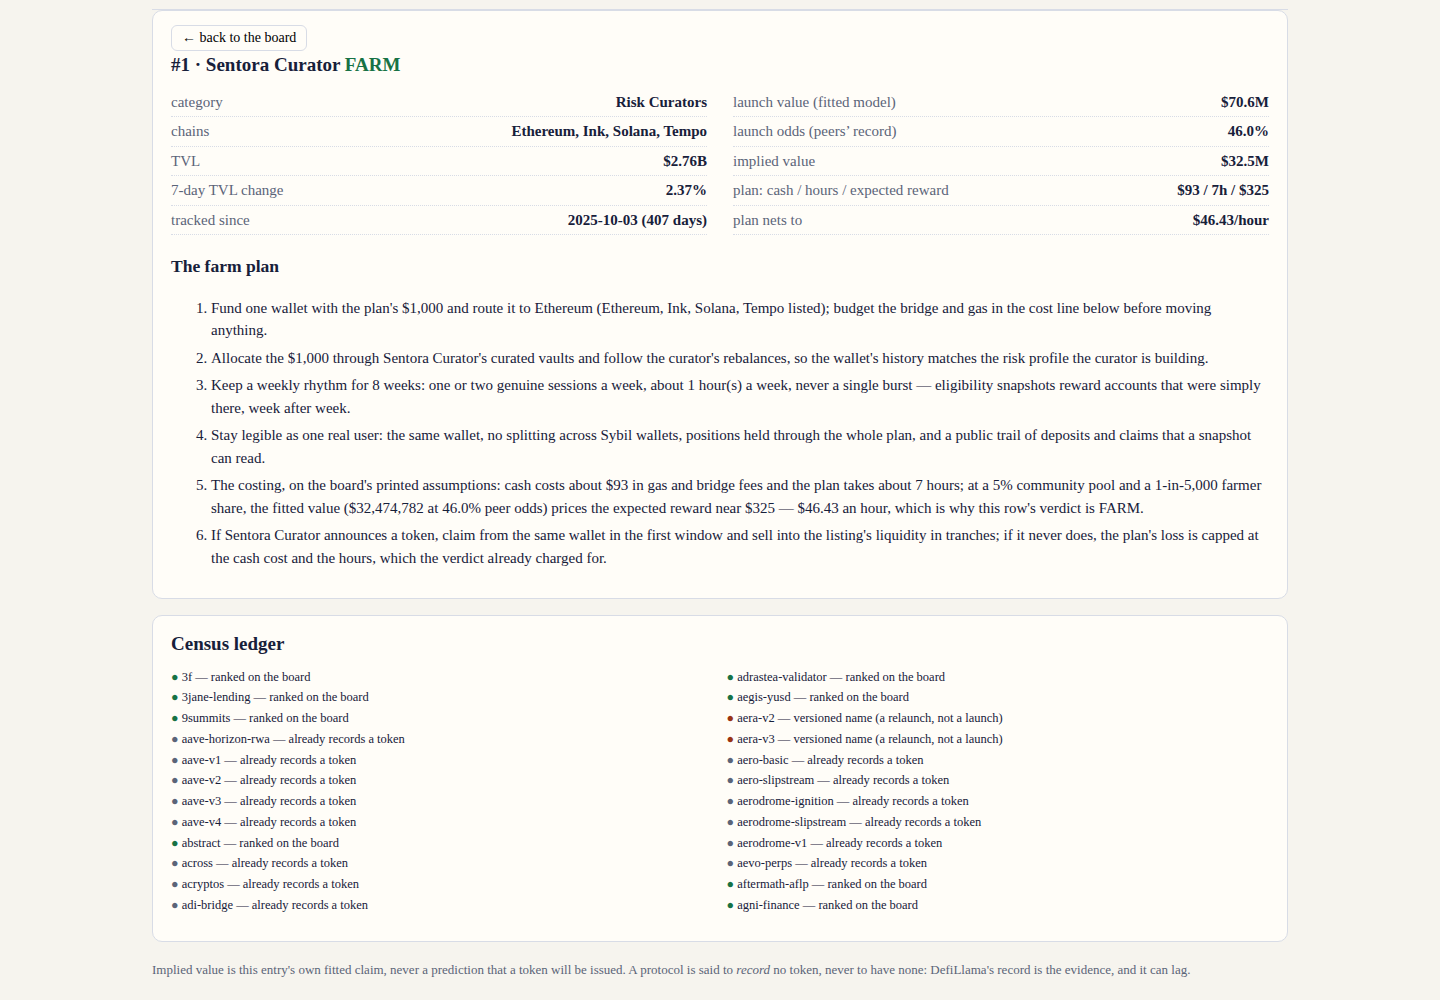
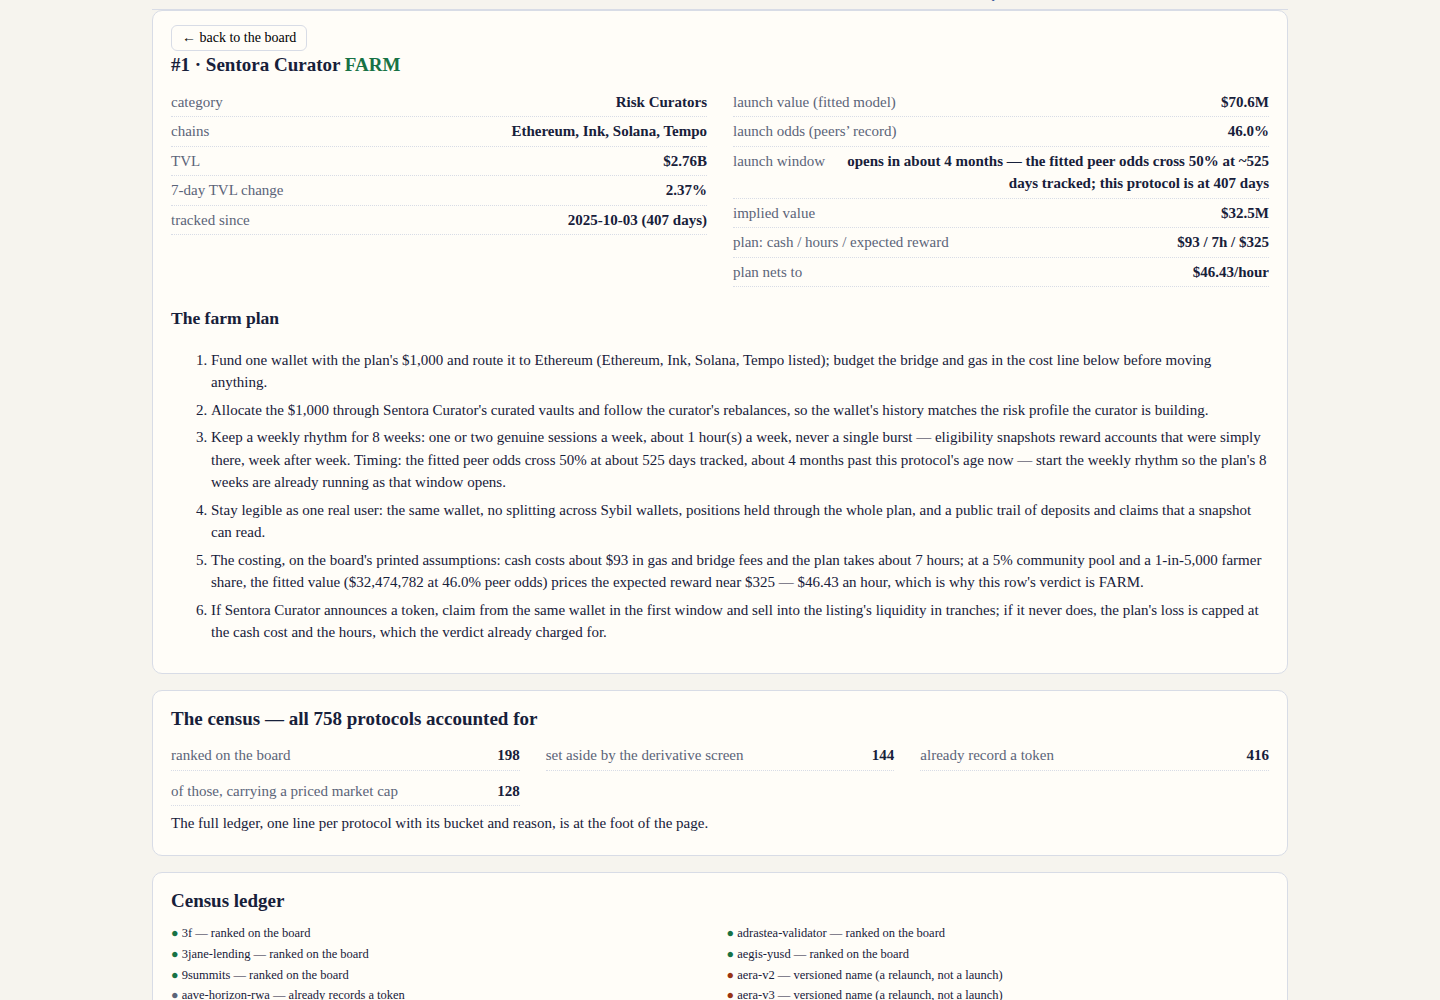
radar-5: launch-window readout on every row (odds-curve 50% crossing ~525d) + cover first screen with the model strip; pricing unchanged from radar-4 (LOO 2.813x), round-2 pricing variants measured and dropped

diff --git a/lib/model.ts b/lib/model.ts
@@ -1,6 +1,6 @@
-// lib/model.ts — the radar-4 scoring model for token-radar-01.
+// lib/model.ts — the radar-5 scoring model for token-radar-01.
 //
-// Idea in one paragraph: a pre-token protocol has no price, so radar-4 prices
+// Idea in one paragraph: a pre-token protocol has no price, so radar-5 prices
 // the token it would launch with two fits taken from the sealed snapshot
 // itself, each kept only because a held-out test kept it. (1) A launch-value
 // model: a TVL-weighted MEDIAN regression (least absolute deviations, fitted
@@ -15,7 +15,14 @@
 // against tracked age — the peers' record of who ends up issuing. Implied
 // value = launch value x odds, an expected value, and the board ranks by it.
 //
-// What the tests dropped this round (each fitted, tested, then removed):
+// What changed in radar-5 is a readout, not a price: each row now also
+// carries its LAUNCH WINDOW — the fitted odds curve solved for the tracked
+// age at which half of like peers already record a token (~525 days on this
+// snapshot), reported per row as already open or as the months of tracking
+// that remain. It moves no price and no rank; it times the farm plan the
+// price justifies, and the plan's third step says so in words.
+//
+// What the tests dropped in round 1 (each fitted, tested, then removed):
 // the plain least-squares size curve of radar-3 (kept here as a scored
 // reference), a quadratic TVL term, category intercepts and category
 // multiples, gradient-boosted trees, a TVL term and a growth term in the
@@ -25,6 +32,16 @@
 // and on the comps at or above the $50M floor it scores 2.31x against the
 // curve's 2.86x.
 //
+// What the tests dropped in round 2 (fitted and tested the same way, then
+// removed): excluding the comps whose token is itself a dollar-pegged or
+// stablecoin-issuer asset (LOO 3.01–3.09x on the shared comp set, against
+// 2.98x for the full set — the pegged comps anchor the fit, they do not
+// bend it), and clipping the 7-day change symmetrically at ±30 or ±25
+// instead of the fitted range (2.83–2.85x, against 2.81x). The pricing
+// model therefore stands exactly as radar-4 fitted it; radar-5's claim is
+// the window readout and a first screen that prints the model, its tests
+// and the census before the board, not a new fit.
+//
 // Known limit, stated plainly: split the comps by tracked age instead of at
 // random and the extra terms transfer less well than the plain size curve —
 // the weighted fit's edge is in pricing this snapshot's field, the task it is
@@ -33,7 +50,7 @@
 // Everything is a pure function of the snapshot: no clock, no network, no
 // unseeded randomness, so two runs over the same snapshot agree byte for byte.
 
-export const MODEL_VERSION = 'radar-4';
+export const MODEL_VERSION = 'radar-5';
 
 /** One protocol record, as the sealed snapshot carries it. */
 export interface Protocol {
@@ -412,11 +429,54 @@ export function launchOdds(fit: OddsFit, p: Protocol, asOf: string): number {
   return round4(1 / (1 + Math.exp(-z)));
 }
 
+/** The tracked age at which the fitted odds curve crosses 50%: the age by
+ * which half of like peers already record a token. Null when the fitted
+ * slope never carries the curve to 50%. */
+export function oddsMidpointDays(fit: OddsFit): number | null {
+  if (fit.slope <= 0) return null;
+  return Math.round(10 ** (-fit.intercept / fit.slope));
+}
+
+/** A row's launch window, read off the fitted odds curve: whether the
+ * protocol's tracked age is already past the curve's 50% crossing, or how
+ * many months of tracking remain until it reaches that age. A timing
+ * readout only — it moves no price and no rank. */
+export function windowInfo(
+  fit: OddsFit,
+  midpoint: number | null,
+  p: Protocol,
+  asOf: string,
+): { label: string; text: string; timing: string } {
+  const age = ageDays(p, asOf) ?? fit.median_age_days;
+  if (midpoint === null) {
+    return {
+      label: '—',
+      text: 'the fitted odds curve does not cross 50% at any tracked age',
+      timing: 'The fitted peer odds never cross 50% at any tracked age, so the plan runs on the price signal alone.',
+    };
+  }
+  if (age >= midpoint) {
+    return {
+      label: 'open',
+      text: `in the window — ${age} days tracked, past the ~${midpoint}-day age at which the fitted peer odds cross 50%`,
+      timing: `Timing: at ${age} days tracked it is already past the ~${midpoint}-day age where the fitted peer odds cross 50%, so the plan starts inside the window the odds describe — begin now, not later.`,
+    };
+  }
+  const months = (midpoint - age) / 30.4375;
+  const label = months < 1 ? 'opens <1 mo' : `opens ~${Math.round(months)} mo`;
+  const monthsText = months < 1 ? 'under a month' : `about ${Math.round(months)} month${Math.round(months) === 1 ? '' : 's'}`;
+  return {
+    label,
+    text: `opens in ${monthsText} — the fitted peer odds cross 50% at ~${midpoint} days tracked; this protocol is at ${age} days`,
+    timing: `Timing: the fitted peer odds cross 50% at about ${midpoint} days tracked, ${monthsText} past this protocol's age now — start the weekly rhythm so the plan's ${PLAN.weeks} weeks are already running as that window opens.`,
+  };
+}
+
 // ------------------------------------------------------- validation
 
 export interface Validation {
   comps: number;
-  /** radar-4 value model, leave-one-out over the comps. */
+  /** radar-5 value model, leave-one-out over the comps. */
   median_fold_error: number;
   within_2x_pct: number;
   within_3x_pct: number;
@@ -568,7 +628,7 @@ function oddsValidation(protocols: Protocol[], asOf: string): { auc: number; gap
   return { auc: round3(aucs.reduce((a, b) => a + b, 0) / aucs.length), gap: round3(gaps.reduce((a, b) => a + b, 0) / gaps.length) };
 }
 
-/** Score the radar-4 model, the radar-3 curve, the older baseline and the
+/** Score the radar-5 model, the radar-3 curve, the older baseline and the
  * odds model on held-out tests. */
 export function validateModels(snapshot: Snapshot): Validation {
   const comps = pricingComps(snapshot.protocols);
@@ -680,14 +740,15 @@ function coreAction(p: Protocol): string {
   }
 }
 
-/** A costed farm plan: 6 concrete steps, the fifth carrying the costing. */
-export function farmPlan(p: Protocol, implied: number, odds: number): { steps: string[]; verdict: Verdict; perHour: number; cash: number; hours: number; reward: number } {
+/** A costed farm plan: 6 concrete steps, the fifth carrying the costing.
+ * The third step also carries the launch-window timing sentence. */
+export function farmPlan(p: Protocol, implied: number, odds: number, timing: string): { steps: string[]; verdict: Verdict; perHour: number; cash: number; hours: number; reward: number } {
   const eco = planEconomics(p, implied);
   const chainList = p.chains.length > 0 ? p.chains.join(', ') : 'its main chain';
   const steps = [
     `Fund one wallet with the plan's $1,000 and route it to ${p.chains[0] ?? 'the main chain'} (${chainList} listed); budget the bridge and gas in the cost line below before moving anything.`,
     coreAction(p),
-    `Keep a weekly rhythm for ${PLAN.weeks} weeks: one or two genuine sessions a week, about ${Math.max(1, Math.round(eco.hours / PLAN.weeks))} hour(s) a week, never a single burst — eligibility snapshots reward accounts that were simply there, week after week.`,
+    `Keep a weekly rhythm for ${PLAN.weeks} weeks: one or two genuine sessions a week, about ${Math.max(1, Math.round(eco.hours / PLAN.weeks))} hour(s) a week, never a single burst — eligibility snapshots reward accounts that were simply there, week after week. ${timing}`,
     `Stay legible as one real user: the same wallet, no splitting across Sybil wallets, positions held through the whole plan, and a public trail of deposits and claims that a snapshot can read.`,
     `The costing, on the board's printed assumptions: cash costs about ${money(eco.cash)} in gas and bridge fees and the plan takes about ${eco.hours} hours; at a 5% community pool and a 1-in-5,000 farmer share, the fitted value (${money(implied)} at ${(odds * 100).toFixed(1)}% peer odds) prices the expected reward near ${money(eco.reward)} — ${money(eco.perHour)} an hour, which is why this row's verdict is ${eco.verdict}.`,
     `If ${p.name} announces a token, claim from the same wallet in the first window and sell into the listing's liquidity in tranches; if it never does, the plan's loss is capped at the cash cost and the hours, which the verdict already charged for.`,
@@ -711,6 +772,8 @@ export interface BoardRow {
   watchlist: boolean;
   launch_value_usd: number;
   launch_odds: number;
+  window_label: string;
+  launch_window: string;
   implied_value_usd: number;
   verdict: Verdict;
   usd_per_hour: number;
@@ -734,6 +797,7 @@ export interface Radar {
   floor_usd: number;
   value_fit: ValueFit;
   odds_fit: OddsFit;
+  odds_midpoint_days: number | null;
   validation: Validation;
   census: { total: number; ranked: number; derivative: number; token: number; priced: number };
   census_lines: CensusLine[];
@@ -745,6 +809,7 @@ export function buildRadar(snapshot: Snapshot): { board: BoardRow[]; radar: Rada
   const comps = pricingComps(snapshot.protocols);
   const valueFit = fitValue(comps, snapshot.as_of);
   const oddsFit = fitOdds(snapshot.protocols, snapshot.as_of);
+  const midpoint = oddsMidpointDays(oddsFit);
   const validation = validateModels(snapshot);
   const watch = new Set(snapshot.watchlist);
 
@@ -769,8 +834,9 @@ export function buildRadar(snapshot: Snapshot): { board: BoardRow[]; radar: Rada
     censusLines.push({ slug: p.slug, bucket: 'ranked', reason: 'ranked on the board' });
     const launch = launchValue(valueFit, p, snapshot.as_of);
     const odds = launchOdds(oddsFit, p, snapshot.as_of);
+    const win = windowInfo(oddsFit, midpoint, p, snapshot.as_of);
     const implied = Math.max(1, Math.round(launch * odds));
-    const plan = farmPlan(p, implied, odds);
+    const plan = farmPlan(p, implied, odds, win.timing);
     rows.push({
       rank: 0,
       slug: p.slug,
@@ -784,6 +850,8 @@ export function buildRadar(snapshot: Snapshot): { board: BoardRow[]; radar: Rada
       watchlist: watch.has(p.slug),
       launch_value_usd: launch,
       launch_odds: odds,
+      window_label: win.label,
+      launch_window: win.text,
       implied_value_usd: implied,
       verdict: plan.verdict,
       usd_per_hour: plan.perHour,
@@ -804,6 +872,7 @@ export function buildRadar(snapshot: Snapshot): { board: BoardRow[]; radar: Rada
     floor_usd: snapshot.floor_usd,
     value_fit: valueFit,
     odds_fit: oddsFit,
+    odds_midpoint_days: midpoint,
     validation,
     census: {
       total: snapshot.protocols.length,

diff --git a/dashboard/app.js b/dashboard/app.js
@@ -1,4 +1,4 @@
-// radar-4 dashboard: renders window.RADAR (written by main.ts from the same
+// radar-5 dashboard: renders window.RADAR (written by main.ts from the same
 // board the gate scores) and recomputes the cover's claims from it, live.
 (function () {
   var R = window.RADAR;
@@ -36,11 +36,29 @@
       ['implied = launch × odds on all rows', rows.every(function (r) {
         return r.implied_value_usd === Math.max(1, Math.round(r.launch_value_usd * r.launch_odds));
       })],
-      ['every row carries its farm plan', rows.every(function (r) { return r.farm_steps.length >= 3; })]
+      ['every row carries its farm plan', rows.every(function (r) { return r.farm_steps.length >= 3; })],
+      ['every row carries its launch window', rows.every(function (r) {
+        return typeof r.window_label === 'string' && r.window_label.length > 0 &&
+          typeof r.launch_window === 'string' && r.launch_window.length > 20;
+      })],
+      ['window midpoint printed ' + R.odds_midpoint_days + ' days', typeof R.odds_midpoint_days === 'number' && R.odds_midpoint_days > 0]
     ];
     $('integrity').innerHTML = checks.map(function (ch) {
       return '<span class="chip">' + (ch[1] ? '<b>✓</b> ' : '<b>✗</b> ') + esc(ch[0]) + '</span>';
     }).join('');
+  })();
+
+  // ---- model strip: the tests and the odds clock, in five numbers
+  (function () {
+    var v = R.validation;
+    $('modelstrip').innerHTML =
+      '<div class="mstrip">' +
+      '<div class="ms"><span>value model — LOO fold error</span><b>' + v.median_fold_error + '×</b></div>' +
+      '<div class="ms"><span>radar-3 curve — same test</span><b>' + v.ols_median_fold_error + '×</b></div>' +
+      '<div class="ms"><span>repeated 10-fold CV</span><b>' + v.cv_median_fold_error + '×</b></div>' +
+      '<div class="ms"><span>odds AUC (split-half)</span><b>' + v.odds_auc + '</b></div>' +
+      '<div class="ms"><span>peers cross 50% odds at</span><b>' + R.odds_midpoint_days + ' days tracked</b></div>' +
+      '</div>';
   })();
 
   // ---- model panel: the fits and their held-out tests
@@ -53,7 +71,7 @@
       'launch_odds = σ(' + of.intercept + ' + ' + of.slope + ' · log10 age) &nbsp;·&nbsp; implied = launch_value × odds</p>' +
       '<div class="grid">' +
       '<div><div class="kv"><span>value fit comps (traded, non-derivative)</span><b>' + vf.comps + '</b></div>' +
-      '<div class="kv"><span>LOO median fold error — radar-4</span><b>' + v.median_fold_error + '×</b></div>' +
+      '<div class="kv"><span>LOO median fold error — radar-5</span><b>' + v.median_fold_error + '×</b></div>' +
       '<div class="kv"><span>LOO median fold error — radar-3 curve</span><b>' + v.ols_median_fold_error + '×</b></div>' +
       '<div class="kv"><span>LOO median fold error — category multiples</span><b>' + v.baseline_median_fold_error + '×</b></div>' +
       '<div class="kv"><span>repeated 10-fold CV fold error</span><b>' + v.cv_median_fold_error + '×</b></div></div>' +
@@ -65,7 +83,8 @@
       '</div>' +
       '<p>The value fit is a median regression, not a mean: it prices the typical peer, so one moonshot comp cannot bend the curve. ' +
       'Each comp is weighted by the square root of its TVL rank, and every feature is clipped to the comps’ own range before it is read — the model never extrapolates past the record it was fitted on. ' +
-      'Terms the tests dropped this round: a quadratic TVL term, category intercepts, gradient-boosted trees, and TVL and growth terms in the odds fit — each was fitted, tested held-out, and removed for failing to earn its place.</p>';
+      'Terms the tests dropped this round: a quadratic TVL term, category intercepts, gradient-boosted trees, and TVL and growth terms in the odds fit — each was fitted, tested held-out, and removed for failing to earn its place.</p>' +
+      '<p>The launch window reads the odds fit as a clock: it solves the fitted curve for the age at which half of like peers already record a token (about ' + R.odds_midpoint_days + ' days on this snapshot) and reports, per row, whether that age is past or how many months of tracking remain until it. It changes no price and no rank — it times the plan the price justifies.</p>';
   })();
 
   // ---- census panel
@@ -103,12 +122,13 @@
     $('shown').textContent = 'showing ' + list.length + ' of ' + rows.length + ' rows';
     var html = '<table class="board"><thead><tr>' +
       '<th class="l">#</th><th class="l">Protocol</th><th class="l">Category</th><th>TVL</th>' +
-      '<th>Launch value</th><th>Odds</th><th>Implied</th><th>Verdict</th><th>$/hour</th></tr></thead><tbody>';
+      '<th>Launch value</th><th>Odds</th><th>Window</th><th>Implied</th><th>Verdict</th><th>$/hour</th></tr></thead><tbody>';
     list.forEach(function (r) {
       html += '<tr class="row" data-slug="' + esc(r.slug) + '"><td class="l num">' + r.rank + '</td>' +
         '<td class="l"><b>' + esc(r.name) + '</b>' + (r.watchlist ? '<span class="wl">watchlist</span>' : '') + '</td>' +
         '<td class="l">' + esc(r.category) + '</td><td class="num">' + money(r.tvl_usd) + '</td>' +
         '<td class="num">' + money(r.launch_value_usd) + '</td><td class="num">' + (r.launch_odds * 100).toFixed(0) + '%</td>' +
+        '<td class="num win">' + esc(r.window_label) + '</td>' +
         '<td class="num"><b>' + money(r.implied_value_usd) + '</b></td>' +
         '<td class="v' + r.verdict + '">' + r.verdict + '</td><td class="num">$' + r.usd_per_hour.toFixed(2) + '</td></tr>';
     });
@@ -134,6 +154,7 @@
       '<div class="kv"><span>tracked since</span><b>' + (r.listed_at || 'unrecorded') + (r.age_days === null ? '' : ' (' + r.age_days + ' days)') + '</b></div></div>' +
       '<div><div class="kv"><span>launch value (fitted model)</span><b>' + money(r.launch_value_usd) + '</b></div>' +
       '<div class="kv"><span>launch odds (peers’ record)</span><b>' + (r.launch_odds * 100).toFixed(1) + '%</b></div>' +
+      '<div class="kv"><span>launch window</span><b>' + esc(r.launch_window) + '</b></div>' +
       '<div class="kv"><span>implied value</span><b>' + money(r.implied_value_usd) + '</b></div>' +
       '<div class="kv"><span>plan: cash / hours / expected reward</span><b>$' + r.plan_cash_usd + ' / ' + r.plan_hours + 'h / $' + r.expected_reward_usd + '</b></div>' +
       '<div class="kv"><span>plan nets to</span><b>$' + r.usd_per_hour.toFixed(2) + '/hour</b></div></div>' +

diff --git a/dashboard/index.html b/dashboard/index.html
@@ -3,24 +3,25 @@
 <head>
 <meta charset="utf-8">
 <meta name="viewport" content="width=device-width, initial-scale=1">
-<meta name="description" content="radar-4: pre-token protocols ranked by fitted launch value times peer launch odds, every protocol in the snapshot accounted for, every farm plan costed to $/hour.">
-<title>Token Launch Radar — radar-4</title>
+<meta name="description" content="radar-5: pre-token protocols ranked by fitted launch value times peer launch odds, every protocol in the snapshot accounted for, every farm plan costed to $/hour.">
+<title>Token Launch Radar — radar-5</title>
 <link rel="stylesheet" href="app.css">
 </head>
 <body>
 <header>
-  <h1>Token Launch Radar <span class="ver">radar-4</span></h1>
+  <h1>Token Launch Radar <span class="ver">radar-5</span></h1>
   <p class="sub" id="asof"></p>
   <p class="claim">Every protocol in the snapshot is accounted for. Every price on the board comes from a
   model <em>fitted on this snapshot</em> and <em>tested held-out</em> — the tests are printed below, and the
-  strip under them recomputes the board's own claims from the data file, live.</p>
+  strip under them recomputes the board's own claims from the data file, live. Each row also carries its launch window — the age at which the fitted
+  peer odds say a protocol like it typically records a token — so a farm plan can be timed, not just priced.</p>
 </header>
 
 <section id="integrity" class="strip"></section>
 
-<section id="model" class="panel"></section>
+<section id="modelstrip"></section>
 
-<section id="census" class="panel"></section>
+<section id="model" class="panel"></section>
 
 <nav id="controls">
   <input id="q" type="search" placeholder="Search name or slug">
@@ -34,10 +35,13 @@
 
 <main id="board"></main>
 <section id="detail" class="panel" hidden></section>
+<section id="census" class="panel"></section>
 <section id="ledger" class="panel"></section>
 
 <footer>
   <p>Implied value is this entry's own fitted claim, never a prediction that a token will be issued.
+  The launch window is a timing readout from the same fitted odds — the age by which half of like peers
+  already record a token — not a promise that this protocol will issue one, or when.
   A protocol is said to <em>record</em> no token, never to have none: DefiLlama's record is the evidence, and it can lag.</p>
 </footer>
 

diff --git a/main.ts b/main.ts
@@ -1,4 +1,4 @@
-// A token-radar-01 entry (Node 22, standard library only): radar-4.
+// A token-radar-01 entry (Node 22, standard library only): radar-5.
 //
 // The program reads the sealed snapshot from /input/snapshot.json (or --input <file|dir>), scores every
 // rankable pre-token protocol with the fitted model in lib/model.ts, writes the ranked board to
@@ -86,7 +86,7 @@ writeFileSync(join(out, 'dossier.json'), buildDossier(out, { text_max_bytes: TEX
 
 const v = radar.validation;
 process.stdout.write(
-  `token radar (radar-4): ${snapshot.protocols.length} protocols, ${snapshot.watchlist.length} on the watchlist, ${board.length} rows scored, ${radar.census.derivative} derivative-screened, ${radar.census.token} already holding a token\n` +
+  `token radar (radar-5): ${snapshot.protocols.length} protocols, ${snapshot.watchlist.length} on the watchlist, ${board.length} rows scored, ${radar.census.derivative} derivative-screened, ${radar.census.token} already holding a token\n` +
     `token radar: value model LOO median fold ${v.median_fold_error}x over ${v.comps} comps (repeated-CV ${v.cv_median_fold_error}x; radar-3 curve ${v.ols_median_fold_error}x, category baseline ${v.baseline_median_fold_error}x), odds AUC ${v.odds_auc}\n` +
     `token radar: wrote ${join(out, 'board.json')}, ${join(out, 'data.js')}, ${join(out, 'dashboard')} (3 files), ${join(out, 'screenshots')} (${shots.length} images) and ${join(out, 'dossier.json')}\n`,
 );

diff --git a/dashboard/app.css b/dashboard/app.css
@@ -49,3 +49,8 @@ ol.steps li { margin: 5px 0; }
 footer { color: var(--mut); font-size: 13px; margin-top: 18px; }
 button.back { font: 14px Georgia, serif; background: none; border: 1px solid var(--line);
   border-radius: 6px; padding: 4px 10px; cursor: pointer; }
+.mstrip { display: flex; flex-wrap: wrap; gap: 10px 34px; background: var(--card);
+  border: 1px solid var(--line); border-radius: 10px; padding: 10px 18px; margin: 0 0 16px; }
+.ms span { display: block; color: var(--mut); font-size: 12px; }
+.ms b { font-size: 19px; }
+td.win { color: var(--accent); white-space: nowrap; }

diff --git a/README.md b/README.md
@@ -4,7 +4,11 @@
 [![rank](https://make.fun/badge/token-radar-01/kizuna99/token-radar/rank.svg)](https://make.fun/bounty/token-radar-01/leaderboard?utm_source=github&utm_medium=readme&utm_campaign=token-radar-01)
 [![reward](https://make.fun/badge/token-radar-01/kizuna99/token-radar/reward.svg)](https://make.fun/bounty/token-radar-01?utm_source=github&utm_medium=readme&utm_campaign=token-radar-01)
 
-**radar-4** ranks pre-token protocols by expected launch value. Every number
+**radar-5** ranks pre-token protocols by expected launch value — and now
+also reads each row's **launch window** off the fitted odds: the tracked age
+by which half of like peers already record a token (~525 days on this
+snapshot), reported per row as already open or as the months that remain,
+so a farm plan can be timed, not just priced. Every number
 on the board is fitted from the sealed snapshot itself and tested held-out
 before it is believed:
 
@@ -27,6 +31,16 @@ makes the big protocols — the ones the board actually prices — count for mor
 than the tail; and clipping every feature to the fitted range means the model
 never extrapolates past the record it was fitted on.
 
+The change from radar-4 is a readout, not a price. Round 2 fitted and tested
+two pricing changes and dropped both on the numbers: excluding the comps
+whose token is itself dollar-pegged or a stablecoin issuer's (leave-one-out
+3.01–3.09× on the shared comp set, against 2.98× keeping them — the pegged
+comps anchor the fit), and clipping the 7-day change symmetrically at ±30 or
+±25 (2.83–2.85×, against 2.81×). The pricing therefore stands exactly as
+radar-4 fitted it; what radar-5 adds is the launch window on every row and
+in every farm plan's timing step, plus a first screen that prints the model,
+its held-out tests and the census counts above the board.
+
 Term selection was done by held-out tests, not by taste. Fitted and then
 **dropped** this round: a quadratic TVL term, category intercepts and
 category multiples, gradient-boosted trees, a trimmed least-squares variant,
@@ -45,7 +59,7 @@ supports.
   radar-3's least-squares size curve folds at **3.27×** leave-one-out
   (2.86× on the big comps), and the category-multiples model before it at
   **5.25×**. The curve keeps one better number — 38.0% of its predictions
-  land within 2×, against radar-4's 32.6%: radar-4's median is tighter while
+  land within 2×, against radar-5's 32.6%: radar-5's median is tighter while
   its best-case band is thinner, and the trade is stated, not hidden.
 - Known limit, stated plainly: split the comps by tracked age instead of at
   random and the extra terms transfer less well than the plain size curve.
@@ -54,7 +68,10 @@ supports.
 - Odds model: split-half AUC **0.711**, mean calibration gap **0.026** over
   20 splits. The peers' record is plain: the share of protocols that already
   record a token rises with tracked age — the odds term reads that record,
-  nothing else.
+  nothing else. Solved for its 50% crossing, the curve puts the typical
+  launch window at **~525 days tracked**: of the board's 198 rows, the
+  window is already open for those past that age and months away for the
+  rest, and each row prints which.
 
 ## The census
 
